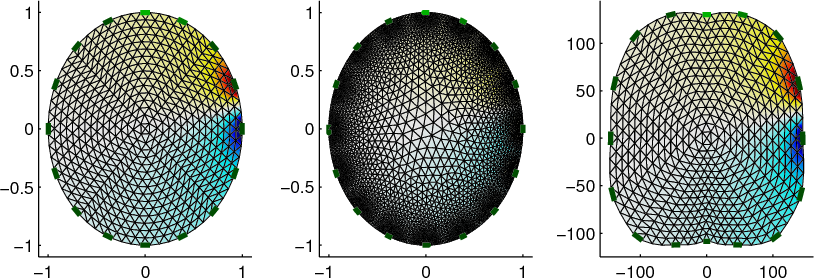
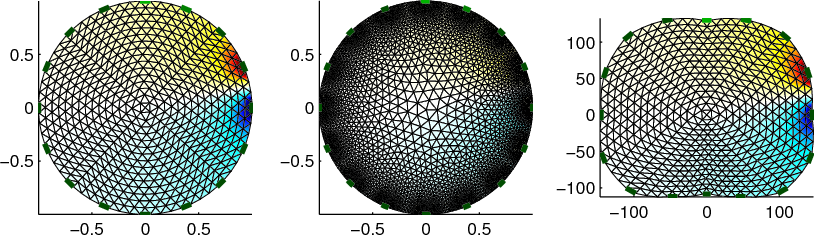
write new files that are square
git-svn-id: svn://svn.code.sf.net/p/eidors3d/code/trunk@3879 82006732-fb7e-4a22-9f28-86a212cce563

diff --git a/htdocs/tutorial/EIDORS_basics/backproj_solve02.m b/htdocs/tutorial/EIDORS_basics/backproj_solve02.m
@@ -24,7 +24,7 @@ for idx=1:3
   imgn.node_data= vh.volt;
   subplot(2,3,idx); show_fem(imgn);
 end
-print_convert inv_solve_backproj02a.png
+print_convert backproj_solve02a.png
 
 % Calculate Equipotential lines
 for idx=1:3
@@ -38,4 +38,4 @@ for idx=1:3
 
   subplot(2,3,idx); show_fem(imgn);
 end
-print_convert inv_solve_backproj02b.png
+print_convert backproj_solve02b.png

diff --git a/htdocs/tutorial/EIDORS_basics/backproj_solve01.m b/htdocs/tutorial/EIDORS_basics/backproj_solve01.m
@@ -28,10 +28,10 @@ for i=1:4
    patch(xx,yy,zz{i},zz{i}); view(0, 4); axis off
 end
 
-print_convert inv_solve_backproj01a.png
+print_convert backproj_solve01a.png
 
 for i=1:4
    subplot(2,4,i); cla
    patch(xx,yy,zz{i},zz{i}); view(0,34); axis off
 end
-print_convert inv_solve_backproj01b.png
+print_convert backproj_solve01b.png
